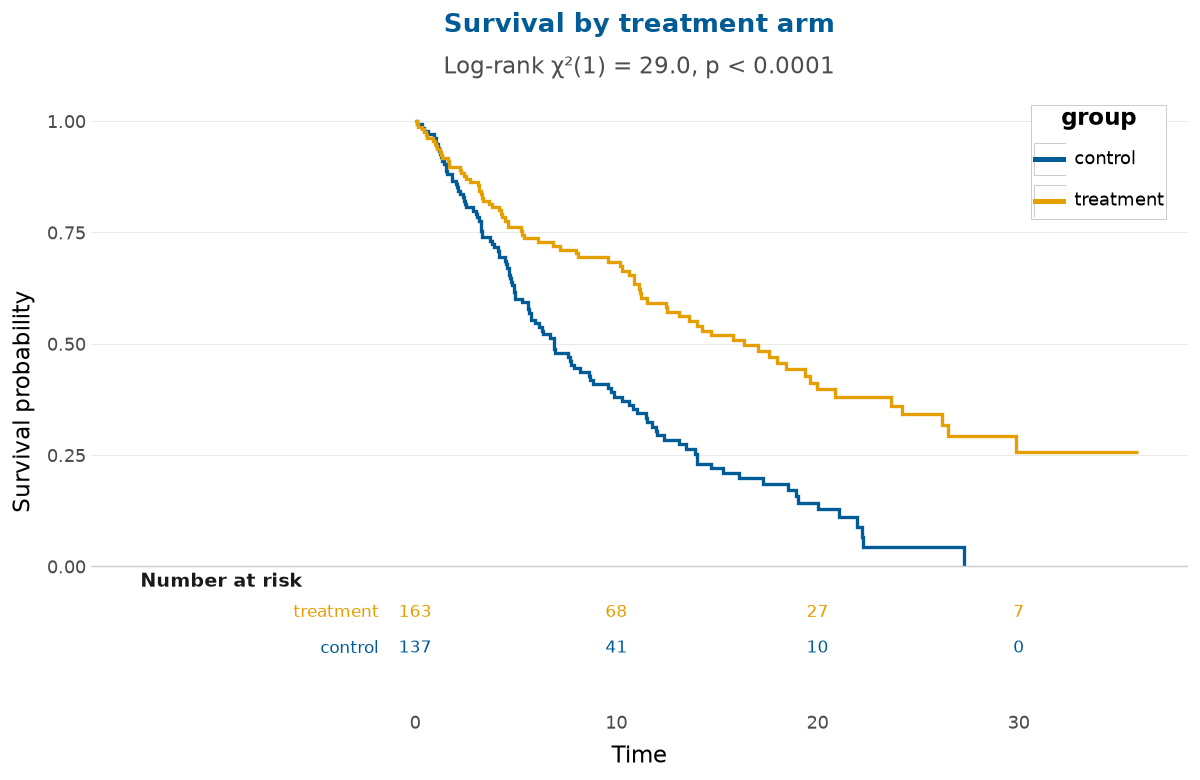
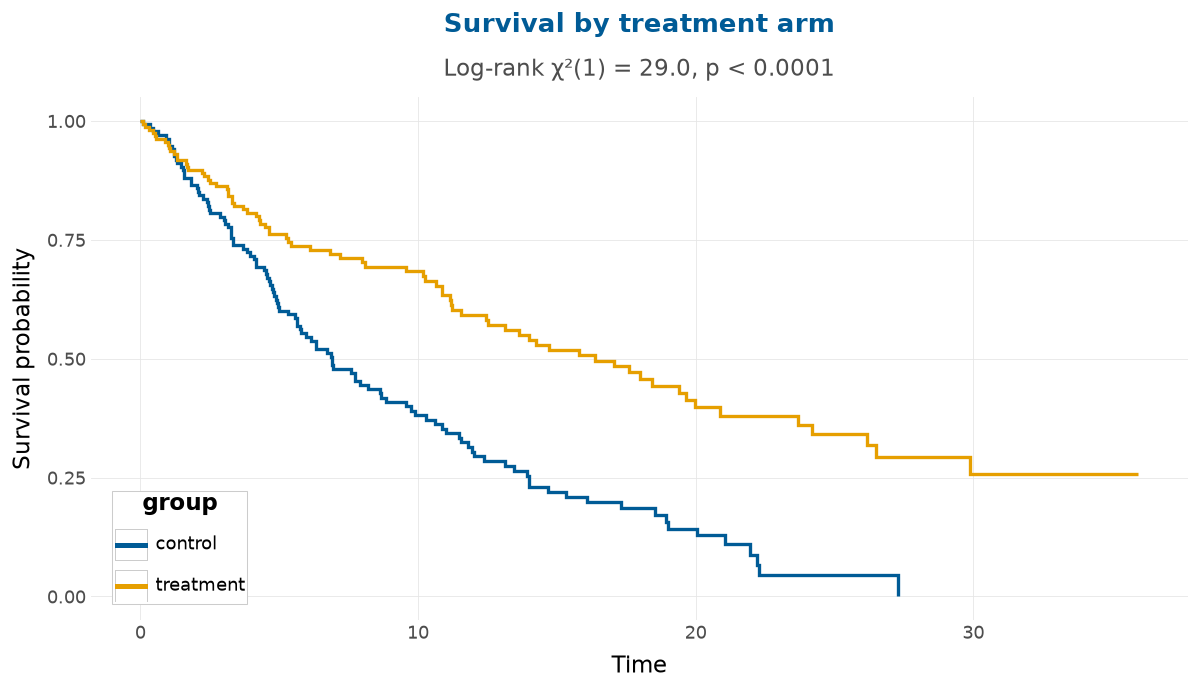
README: use the clean KM curves for the survival plot
The risk-table variant had loose vertical proportions in the README aspect
ratio (the number-at-risk strip floated well below the curves). Swap the
gallery image for the plain Kaplan-Meier curves with the log-rank subtitle
and an inside legend, which reads far cleaner; the risk-table feature is
still shown in the example gallery.

diff --git a/README.md b/README.md
@@ -16,12 +16,12 @@ sibling of the [depictr R package](https://github.com/pablobernabeu/depictr).
 ## Gallery
 
 A grouped density (the default palette is the colourblind-safe Okabe-Ito set) and
-Kaplan-Meier survival curves with a number-at-risk table, both from a single
-function call:
+Kaplan-Meier survival curves with a log-rank test, both from a single function
+call:
 
 ![Grouped density of response times by priming condition, in the Okabe-Ito palette](https://raw.githubusercontent.com/pablobernabeu/depictr-py/main/images/readme-distribution.png)
 
-![Kaplan-Meier survival curves by treatment arm, with a log-rank test and a number-at-risk table](https://raw.githubusercontent.com/pablobernabeu/depictr-py/main/images/readme-survival.png)
+![Kaplan-Meier survival curves by treatment arm, with a log-rank test](https://raw.githubusercontent.com/pablobernabeu/depictr-py/main/images/readme-survival.png)
 
 More in the [example gallery](https://pablobernabeu.github.io/depictr-py/).
 